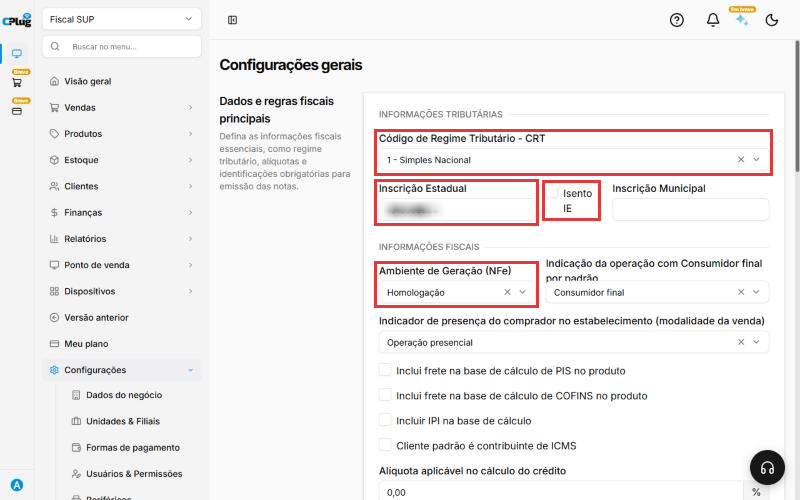
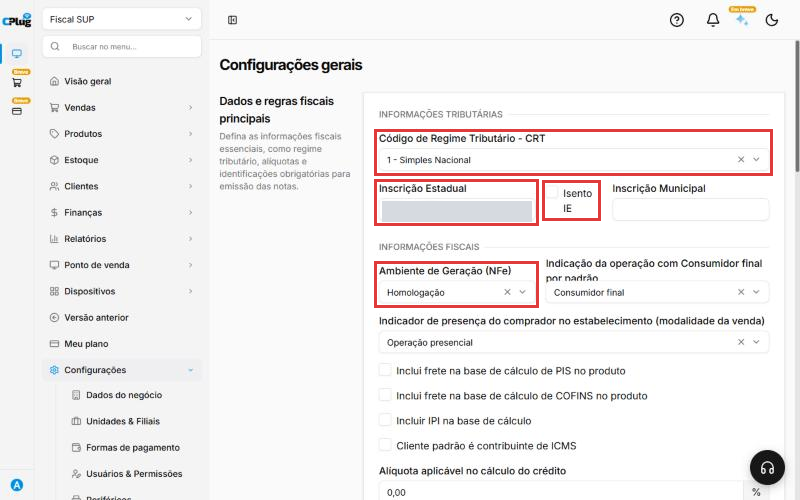
Manual 10.04: conceito (empresa + produto + venda, homologação x produção), boas práticas; tarja sólida no lugar do desfoque da IE e do CSC

Changed region(s): [[0.4688, 0.39, 0.6875, 0.45]]

diff --git a/docs/configuracoes/emissao-de-notas.md b/docs/configuracoes/emissao-de-notas.md
@@ -4,14 +4,35 @@ description: Tudo o que a empresa precisa ter configurado para emitir NFC-e e NF
 codigo: "10.04"
 modulo: Configurações
 tela: /dashboard/settings/fiscal-settings/general
-atualizado: 2026-10-30
+atualizado: 2026-11-01
 ---
 
 # Como configurar a emissão de notas fiscais
 
-<div class="cplug-meta" markdown>:material-clock-outline: 30 minutos · :material-format-list-numbered: 6 etapas · :material-calendar-check: Atualizado em 30/10/2026</div>
+<div class="cplug-meta" markdown>:material-clock-outline: 30 minutos · :material-format-list-numbered: 6 etapas · :material-calendar-check: Atualizado em 01/11/2026</div>
 
 Antes da primeira nota fiscal, a empresa precisa ter **seis coisas** configuradas no sistema. Se faltar qualquer uma, a nota não é emitida ou é recusada pela Sefaz.
+
+## Entenda o conceito
+
+Toda nota fiscal é montada com **três fontes de informação** e depois **conferida pela Sefaz**:
+
+| Fonte | O que entra na nota | Onde se configura |
+| --- | --- | --- |
+| **A empresa** (quem vende) | Razão social, CNPJ, endereço, IE, regime, certificado, série | Esta página (etapas 1 a 5) |
+| **O produto** (o que se vende) | NCM, origem, CFOP e os **grupos** de ICMS e PIS/COFINS | [Dados fiscais do produto](../produtos/parametros-fiscais.md) |
+| **A venda** (para quem e como) | Cliente, quantidades, valores e pagamento | No caixa ou na emissão da NF-e |
+
+A configuração da empresa é feita **uma vez** (e revista quando algo muda: certificado vencendo, mudança de regime). Os grupos de impostos (etapa 6) são a **ponte** entre a empresa e os produtos: você cria as regras uma vez e liga cada produto à regra certa.
+
+### Homologação e Produção
+
+| Ambiente | Para que serve | As notas valem? |
+| --- | --- | --- |
+| **Homologação** | Testar a configuração sem risco. Aparece um aviso vermelho na tela de NF-e. | **Não.** São só de teste. |
+| **Produção** | Vender de verdade. | **Sim.** |
+
+Comece em **Homologação**, emita algumas notas de teste e, quando forem **autorizadas**, mude para **Produção**.
 
 ## Checklist: o que é obrigatório
 
@@ -65,7 +86,7 @@ Na parte **Informações fiscais**, confira o **Ambiente de Geração (NFe)**:
 - **Homologação:** ambiente de **teste**. As notas não têm valor fiscal.
 - **Produção:** ambiente **real**. Use este para vender de verdade.
 
-![Configurações gerais com CRT, Inscrição Estadual, Isento IE e Ambiente de Geração destacados (a IE aparece borrada de propósito)](../imagens/10.04/03-configuracoes-gerais.png){ loading=lazy }
+![Configurações gerais com CRT, Inscrição Estadual, Isento IE e Ambiente de Geração destacados (a IE aparece coberta de propósito)](../imagens/10.04/03-configuracoes-gerais.png){ loading=lazy }
 
 | CRT | Quando usar |
 | --- | --- |
@@ -114,7 +135,7 @@ O **CSC** (Código de Segurança do Contribuinte) e o **ID Token** são gerados 
 3. Em **ID Token**, digite o identificador do CSC. Exemplo: 000001.
 4. Clique em **Salvar**.
 
-![Autenticação e QR Code com os campos CSC / Token e ID Token destacados (o código aparece borrado de propósito)](../imagens/10.04/07-csc.png){ loading=lazy }
+![Autenticação e QR Code com os campos CSC / Token e ID Token destacados (o código aparece coberto de propósito)](../imagens/10.04/07-csc.png){ loading=lazy }
 
 !!! warning "O CSC é um código sigiloso"
     Não envie o CSC para pessoas de fora da empresa e não poste em lugar público.
@@ -187,6 +208,14 @@ Depois de criar os grupos, configure cada produto: veja [Como configurar os dado
 
 !!! success "Como saber que deu certo"
     Com o **Ambiente de Geração** em **Produção**, faça uma **venda de teste** de valor baixo com nota. Se a nota for **autorizada**, a configuração está completa. Se for recusada, a mensagem da Sefaz diz o motivo. Veja os casos mais comuns abaixo.
+
+!!! tip "Boas práticas"
+    - **Anote o vencimento do certificado** e renove com 30 dias de folga. A tela de NF-e mostra "Renovação em X dias".
+    - **Guarde a senha do certificado** em local seguro: sem ela, o arquivo não serve.
+    - **Teste em Homologação** sempre que mudar algo importante (regime, certificado, série).
+    - **Revise com o contador uma vez por ano** os grupos de impostos e o regime.
+    - **Nunca divulgue o CSC** nem o arquivo do certificado.
+    - **Cadastre o contador em Autorizados a acessar XML**, para ele baixar as notas direto na Sefaz.
 
 ## Deu algum problema?
 
